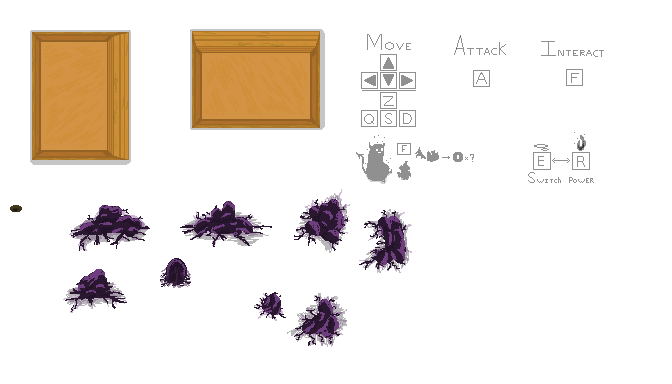
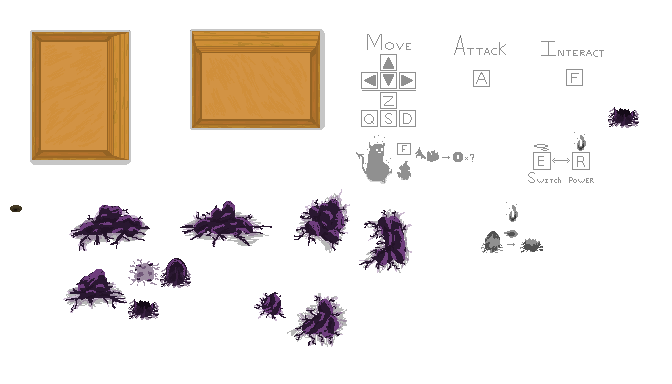
update egg

diff --git a/index.html b/index.html
@@ -167,7 +167,7 @@
                 this.HpJoueur=3;
                 this.fallV=false;
                 this.tailleP=1;
-                this.speedconst = 1000;
+                this.speedconst = 140;
                 this.thune=0;
                 this.LootBatV=0;
                 this.LootRockV=0;
@@ -1581,6 +1581,8 @@
                 { frameWidth: 32, frameHeight: 32 });
                 this.load.spritesheet('MonstreBA','assets/spritesheetMB.png',
                 { frameWidth: 32, frameHeight: 32 });
+                this.load.spritesheet('MonstreBAF','assets/BatInfSpriteSheet.png',
+                { frameWidth: 32, frameHeight: 32 });
                 this.load.spritesheet('PVbar','assets/spritesheetPV.png',
                 { frameWidth: 64, frameHeight: 64 });
                 this.load.spritesheet('SpikeA','assets/spritesheetPique.png',
@@ -1950,6 +1952,8 @@
 
                 this.BatM=this.physics.add.group();
                 this.physics.add.collider(this.BatM, Calque3);
+                this.BatMF=this.physics.add.group();
+                this.physics.add.collider(this.BatMF, Calque3);
                 this.BatM1 = this.BatM.create(1000000000,1000000000, "MonstreBA");  
                 this.BatM2 = this.BatM.create(1000000000,1000000000, "MonstreBA");  
                 this.BatM3 = this.BatM.create(1000000000,1000000000, "MonstreBA");  
@@ -1977,10 +1981,12 @@
                 
                 this.physics.add.overlap(this.groupeBalles, this.PierresM, this.AttaqueRock, null, this);
                 this.physics.add.overlap(this.groupeBalles, this.BatM, this.AttaqueBat, null, this);
+                this.physics.add.overlap(this.groupeBalles, this.BatMF, this.AttaqueBat, null, this);
                 this.physics.add.overlap(this.groupeBalles, this.CampG, this.FireOn, null, this);
                 this.physics.add.overlap(this.groupeBalles, this.EggG, this.EggBroke, null, this);
                 this.physics.add.overlap(this.player, this.groupeBallesTrap, this.MonstreAttaque, null, this);
                 this.physics.add.overlap(this.player, this.BatM, this.MonstreAttaque, null, this);
+                this.physics.add.overlap(this.player, this.BatMF, this.MonstreAttaque, null, this);
                 this.physics.add.overlap(this.player, this.PierresM, this.MonstreAttaque, null, this);
                 this.physics.add.overlap(this.player, this.SpikeG, this.SpikeDegat, null, this);
                 this.physics.add.overlap(this.player, this.Plaque1, this.ActivPlaque1, null, this);
@@ -2206,6 +2212,13 @@
                 this.anims.create({
                     key: 'MonstreBatAttack',           
                     frames: this.anims.generateFrameNumbers('MonstreBA', {start:0,end:1}),          //creation des animation
+                    frameRate: 6,
+                    repeat: -1,
+                });
+
+                this.anims.create({
+                    key: 'MonstreBatAttackF',           
+                    frames: this.anims.generateFrameNumbers('MonstreBAF', {start:0,end:1}),          //creation des animation
                     frameRate: 6,
                     repeat: -1,
                 });
@@ -2496,6 +2509,15 @@
                     AntiBallBloc.setSize(50, 50)
                     this.eggcassé=this.EggOnG.playAnimation("EggSpriteSheetA");
                     this.eggcassé.setDepth(-1);
+                    var varpif=Math.floor(Math.random() * 10)+1
+                    if(varpif>=4){
+                        this.BatMX = this.BatMF.create(eggs.x+15,eggs.y+15, "MonstreBAF");           ///salle 1
+                        this.BatMX.setBounce(1);
+                        this.trackennemie(this.BatMX)
+                        this.BatMF.playAnimation("MonstreBatAttackF");
+                    }else{
+                        var Coin = this.CoinG.create(eggs.x+15,eggs.y+15, "DropMoney");
+                    }
                 }
             }
 
@@ -2654,8 +2676,6 @@
             }
 
             update(){ 
-                console.log(this.player.x)
-                console.log(this.player.y)
 
                 this.compteurTrap1--
                 if(this.compteurTrap1 == 0){
